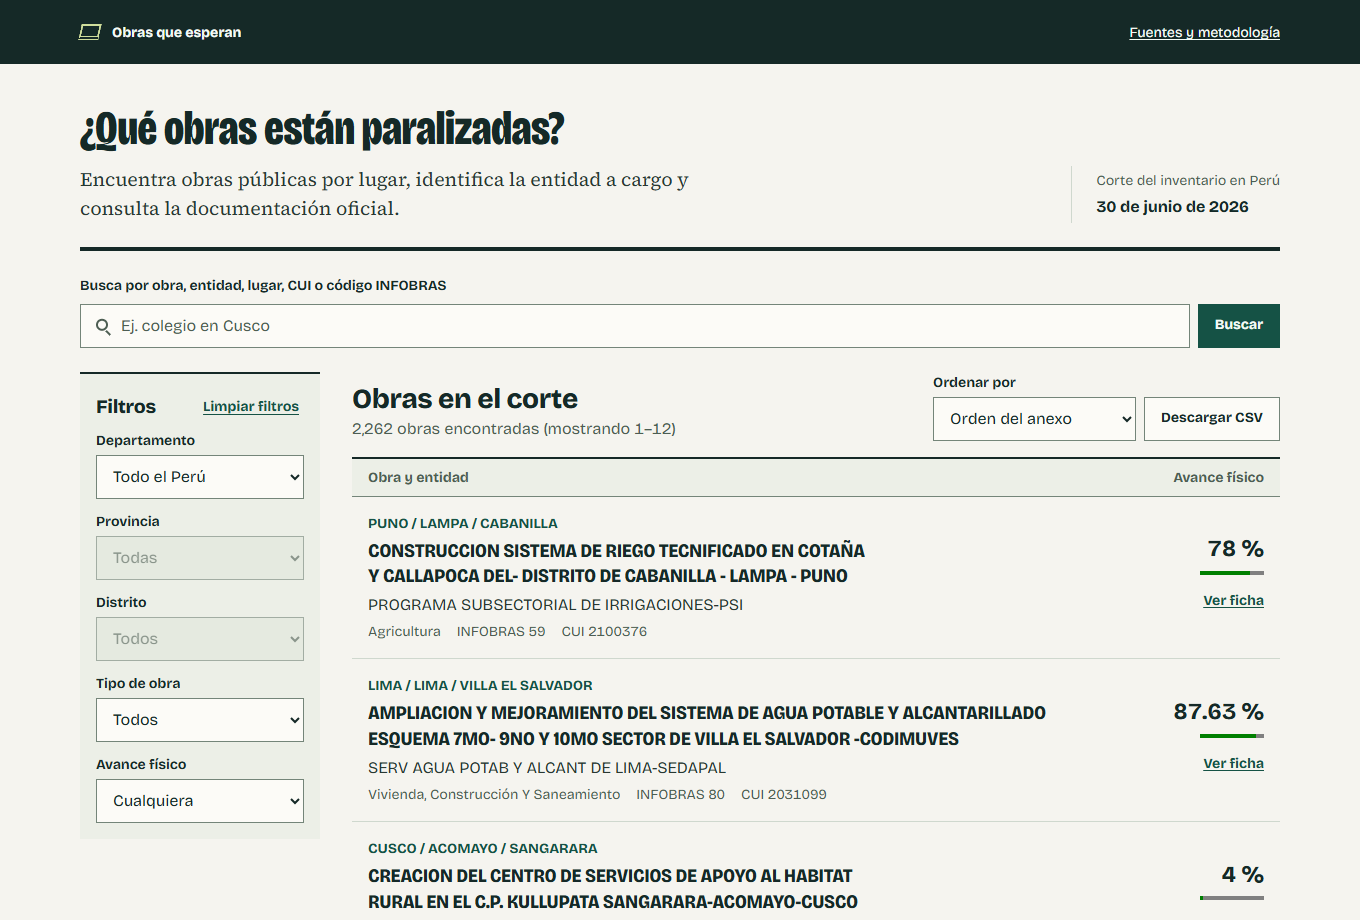
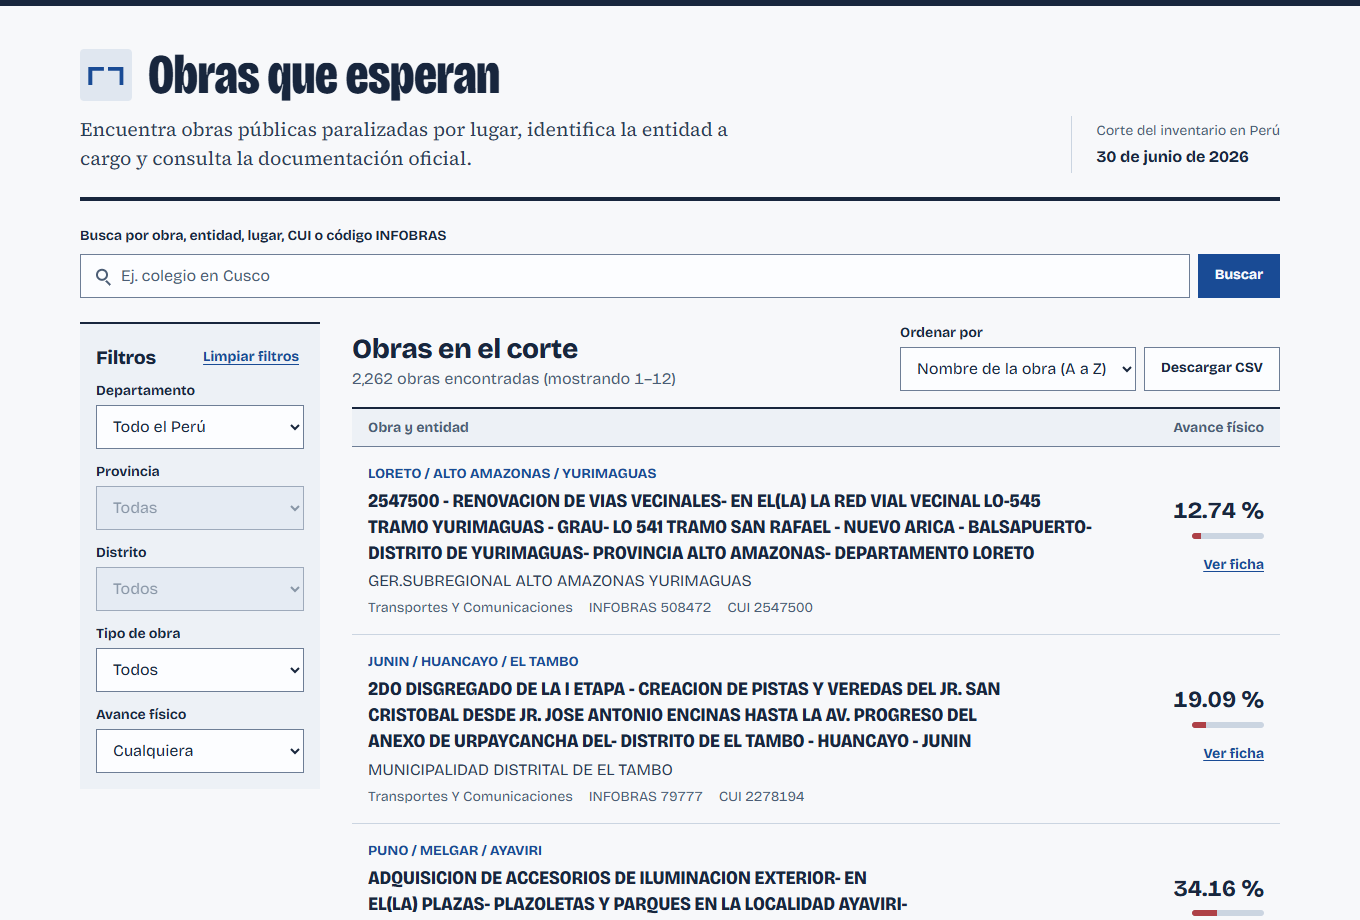
Refinar la portada y diferenciar el avance de obras

diff --git a/dist/buscador.js b/dist/buscador.js
@@ -7,17 +7,16 @@ const $ = id => document.getElementById(id);
 const cantidad = new Intl.NumberFormat("es-PE", { maximumFractionDigits: 2 });
 const moneda = new Intl.NumberFormat("es-PE", { style: "currency", currency: "PEN" });
 const ordenarTexto = new Intl.Collator("es", { sensitivity: "base" }).compare;
+const compararNombres = new Intl.Collator("es", { sensitivity: "base", ignorePunctuation: true }).compare;
+const obrasPorNombre = [...obras].sort((a, b) => compararNombres(a.obra, b.obra) || a.fila - b.fila);
+const ordenInicial = "nombre";
 const tamPagina = 12;
 const sinDato = "Sin dato en el anexo";
 const fechaOficial = new Intl.DateTimeFormat("es-PE", { dateStyle: "long", timeZone: "UTC" });
 const fechaCorte = corte ? fechaOficial.format(new Date(corte)) : "";
 const filtros = ["q", "dep", "prov", "dist", "tipo", "avance", "orden"];
 const comunes = new Set(["en", "de", "del", "la", "las", "el", "los", "y"]);
-const etiquetas = {
-  original: "Orden del anexo",
-  avance: "Mayor avance",
-  costo: "Mayor costo de obra",
-};
+const ordenes = new Set([ordenInicial, "original", "avance", "costo"]);
 const estados = { pagina: 1, resultados: [], cerrandoFicha: false, descargando: false, copia: 0 };
 const iaLocal = inventario && location.protocol === "http:" && location.hostname === "127.0.0.1"
   ? fetch("/api/ia", { signal: AbortSignal.timeout(3000) }).then(respuesta => respuesta.ok ? respuesta.json() : {}).then(datos => datos.disponible === true).catch(() => false)
@@ -132,7 +131,7 @@ function paramsBusqueda() {
   const params = new URLSearchParams();
   for (const id of filtros) {
     const valor = $(id).value.trim();
-    if (valor && !(id === "orden" && valor === "original")) params.set(id, valor);
+    if (valor && !(id === "orden" && valor === ordenInicial)) params.set(id, valor);
   }
   if (estados.pagina > 1) params.set("pagina", estados.pagina);
   return params;
@@ -171,7 +170,8 @@ function buscar({ reiniciar = true, sincronizar = true } = {}) {
   const prov = $("prov").value;
   const dist = $("dist").value;
   const tipo = $("tipo").value;
-  const seleccion = obras.filter(obra => {
+  const orden = $("orden").value;
+  const seleccion = (orden === ordenInicial ? obrasPorNombre : obras).filter(obra => {
     if (dep && obra.departamento !== dep) return false;
     if (prov && obra.provincia !== prov) return false;
     if (dist && obra.distrito !== dist) return false;
@@ -188,13 +188,18 @@ function buscar({ reiniciar = true, sincronizar = true } = {}) {
     return consulta.termino.every(palabra =>
       entrada.texto.includes(palabra) || obra.infobras === palabra || obra.cui === palabra);
   });
-  const orden = $("orden").value;
   if (orden === "avance" || orden === "costo") {
     seleccion.sort((a, b) => (b[orden] ?? -Infinity) - (a[orden] ?? -Infinity) || a.fila - b.fila);
   }
   estados.resultados = seleccion;
   renderizar();
   if (sincronizar) actualizarURL();
+}
+
+function claseAvance(avance) {
+  if (avance < 40) return "avance-bajo";
+  if (avance < 80) return "avance-medio";
+  return "avance-alto";
 }
 
 function renderizar() {
@@ -217,7 +222,7 @@ function renderizar() {
       <div class="dato">
         <span class="dato-etiqueta">Avance físico</span>
         <strong>${obra.avance == null ? "—" : porcentaje(obra.avance)}</strong>
-        ${Number.isFinite(obra.avance) ? `<progress aria-hidden="true" value="${obra.avance}" max="100"></progress>` : ""}
+        ${Number.isFinite(obra.avance) ? `<progress class="${claseAvance(obra.avance)}" aria-hidden="true" value="${obra.avance}" max="100"></progress>` : ""}
         <a data-obra="${obra.infobras}" href="${entidadHtml(enlaceFicha(obra.infobras))}" aria-label="Ver ficha INFOBRAS ${obra.infobras}">Ver ficha</a>
       </div>
     </li>`).join("") : '<li class="vacio">No hay coincidencias en este corte. Prueba con otro nombre o amplía la ubicación.</li>';
@@ -396,7 +401,7 @@ function leerURL() {
   const avance = params.get("avance");
   $("avance").value = ["90", "100", "sin"].includes(avance) ? avance : "";
   const orden = params.get("orden");
-  $("orden").value = Object.hasOwn(etiquetas, orden) ? orden : "original";
+  $("orden").value = ordenes.has(orden) ? orden : ordenInicial;
   estados.pagina = Number.parseInt(params.get("pagina"), 10) || 1;
   buscar({ reiniciar: false, sincronizar: false });
   const codigo = params.get("obra");
@@ -431,7 +436,7 @@ function iniciarBuscador() {
   $("limpiar").onclick = () => {
     form.reset();
     for (const id of ["dep", "tipo"]) $(id).value = "";
-    $("orden").value = "original";
+    $("orden").value = ordenInicial;
     actualizarUbicacion({ prov: "", dist: "" });
     aplicar();
     $("q").focus();

diff --git a/dist/estilos.css b/dist/estilos.css
@@ -1,7 +1,7 @@
-/* Hallmark · shape: app screen · genre: editorial · theme: Editorial (deal 1/3, seed peruvian-public-infrastructure-register-9815·14d6ae30·2026-11-11·r0) · redesign: full
- * nav: masthead de Obras que esperan · signature: registro de obras con avance y ficha · states: carga, vacío, error, resultados
- * axes: light/display-condensed/chromatic-green · posture: restrained · contrast: pass · v2.0.0 */
-/* Hallmark · pre-emit critique: P4 H5 E4 S4 R5 V4 · weakest: S, la evidencia manda; subí los resultados y separé lugar, entidad y avance */
+/* Hallmark · shape: app screen · genre: editorial · theme: custom · v2.0.0
+ * axes: light/display-condensed/slate-blue · posture: restrained
+ * signature: puente, registro territorial y avance físico · states: carga, vacío, error, resultados
+ * critique: un solo título, fuentes al pie y color de avance junto al porcentaje */
 @import url("./tokens.css");
 @import url("./base.css");
 
@@ -37,44 +37,45 @@ button, input, select, textarea {
   transform: none;
 }
 
-.masthead {
-  background: var(--color-ink);
-  color: var(--color-accent-ink);
+.top {
+  border-block-start: 6px solid var(--color-ink);
 }
 
-.topline {
-  min-height: 64px;
+.intro-titulo {
   display: flex;
   align-items: center;
-  justify-content: space-between;
   gap: var(--space-md);
 }
 
-.topline a {
-  color: var(--color-accent-ink);
-  font-size: var(--text-sm);
-  white-space: nowrap;
-}
-
-.topline a:focus-visible {
-  outline-color: var(--color-mark);
-}
-
-.marca {
-  display: inline-flex;
-  align-items: center;
-  gap: var(--space-sm);
-  font-weight: 700;
-  text-decoration: none;
-}
-
-.marca-icono {
-  width: 20px;
-  height: 16px;
+.puente {
+  position: relative;
   flex: none;
-  border: 2px solid var(--color-mark);
-  border-bottom: 4px double var(--color-mark);
-  transform: skewX(-12deg);
+  width: 3.25rem;
+  aspect-ratio: 1;
+  border-radius: var(--space-2xs);
+  background: var(--color-paper-3);
+  color: var(--color-accent);
+}
+
+.puente::before,
+.puente::after {
+  position: absolute;
+  top: 35%;
+  width: 30%;
+  height: 36%;
+  background: currentColor;
+  content: "";
+}
+
+.puente::before {
+  left: 16%;
+  clip-path: polygon(0 0, 100% 0, 100% 4px, 4px 4px, 4px 100%, 0 100%);
+}
+
+.puente::after {
+  right: 16%;
+  transform: scaleX(-1);
+  clip-path: polygon(0 0, 100% 0, 100% 4px, 4px 4px, 4px 100%, 0 100%);
 }
 
 .intro {
@@ -88,7 +89,7 @@ button, input, select, textarea {
 
 .intro h1 {
   max-width: none;
-  font-size: 3rem;
+  font-size: 3.5rem;
   font-variation-settings: "wdth" 75, "opsz" 72;
   line-height: 1.02;
 }
@@ -404,12 +405,52 @@ button:disabled, input:disabled, select:disabled, textarea:disabled {
 }
 
 .dato progress {
-  width: 4rem;
-  height: 4px;
+  appearance: none;
+  display: block;
+  width: 4.5rem;
+  height: 6px;
   margin-block: var(--space-2xs);
+  overflow: hidden;
   border: 0;
+  border-radius: var(--space-2xs);
   background: var(--color-rule);
-  accent-color: var(--color-accent);
+  color: var(--color-avance);
+  accent-color: var(--color-avance);
+}
+
+.avance-bajo {
+  --color-avance: var(--color-avance-bajo);
+}
+
+.avance-medio {
+  --color-avance: var(--color-avance-medio);
+}
+
+.avance-alto {
+  --color-avance: var(--color-avance-alto);
+}
+
+.dato progress[value="0"] {
+  outline: 1px solid var(--color-avance);
+  outline-offset: -1px;
+}
+
+.dato progress::-webkit-progress-bar {
+  background: var(--color-rule);
+}
+
+.dato progress::-webkit-progress-value {
+  background: var(--color-avance);
+}
+
+.dato progress::-moz-progress-bar {
+  background: var(--color-avance);
+}
+
+@media (forced-colors: active) {
+  .dato progress {
+    appearance: auto;
+  }
 }
 
 .dato a {
@@ -646,13 +687,12 @@ textarea {
 }
 
 @media (max-width: 40rem) {
-  .topline {
-    min-height: 56px;
-    gap: var(--space-xs);
+  .intro-titulo {
+    gap: var(--space-sm);
   }
 
-  .marca {
-    gap: var(--space-xs);
+  .puente {
+    width: 2.375rem;
   }
 
   .intro {
@@ -690,13 +730,13 @@ textarea {
     padding-inline: var(--space-xs);
   }
 
-  .lista-cabecera span:last-child, .dato progress {
+  .lista-cabecera span:last-child {
     display: none;
   }
 
   .dato {
-    display: flex;
-    flex-direction: row;
+    display: grid;
+    grid-template-columns: auto auto minmax(1rem, 1fr) auto;
     align-items: center;
     gap: var(--space-xs);
     border-top: var(--rule-hair) solid var(--color-rule);
@@ -716,8 +756,13 @@ textarea {
     font-size: var(--text-lg);
   }
 
+  .dato progress {
+    width: 100%;
+    max-width: 4.5rem;
+  }
+
   .dato a {
-    margin-inline-start: auto;
+    grid-column: 4;
   }
 
   #detalle, .ficha-top {

diff --git a/dist/index.html b/dist/index.html
@@ -4,7 +4,7 @@
   <meta charset="utf-8">
   <meta name="viewport" content="width=device-width,initial-scale=1">
   <meta name="description" content="Busca obras públicas paralizadas en el Perú y consulta su entidad, avance y documentos oficiales.">
-  <meta name="theme-color" content="#152927">
+  <meta name="theme-color" content="#18263d">
   <title>Obras que esperan · Buscador de obras paralizadas</title>
   <link rel="icon" href="favicon.ico">
   <link rel="stylesheet" href="estilos.css?v=editorial">
@@ -28,16 +28,13 @@
 <body>
   <a class="skip" href="#busqueda">Ir al buscador</a>
   <header class="top">
-    <div class="masthead">
-      <div class="wrap topline">
-        <a class="marca" href="index.html" aria-label="Obras que esperan, inicio"><span class="marca-icono" aria-hidden="true"></span>Obras que esperan</a>
-        <nav aria-label="Principal"><a href="#fuentes">Fuentes y metodología</a></nav>
-      </div>
-    </div>
     <div class="wrap intro">
       <div class="intro-texto">
-        <h1>¿Qué obras están paralizadas?</h1>
-        <p>Encuentra obras públicas por lugar, identifica la entidad a cargo y consulta la documentación oficial.</p>
+        <div class="intro-titulo">
+          <span class="puente" aria-hidden="true"></span>
+          <h1>Obras que esperan</h1>
+        </div>
+        <p>Encuentra obras públicas paralizadas por lugar, identifica la entidad a cargo y consulta la documentación oficial.</p>
       </div>
       <dl class="corte">
         <dt>Corte del inventario en Perú</dt>
@@ -82,7 +79,7 @@
               <div><h2 id="titulo-resultados">Obras en el corte</h2><p id="conteo" role="status">Cargando el inventario…</p></div>
               <div class="resultados-herramientas">
                 <div class="sort-row">
-                  <label>Ordenar por <select id="orden" disabled><option value="original">Orden del anexo</option><option value="avance">Mayor avance</option><option value="costo">Mayor costo de obra</option></select></label>
+                  <label>Ordenar por <select id="orden" disabled><option value="nombre">Nombre de la obra (A a Z)</option><option value="original">Orden de la fuente</option><option value="avance">Mayor avance</option><option value="costo">Mayor costo de obra</option></select></label>
                 </div>
                 <button id="descargar" type="button" class="button secondary" disabled>Descargar CSV</button>
               </div>

diff --git a/dist/tokens.css b/dist/tokens.css
@@ -25,13 +25,13 @@
   --color-error: oklch(52% 0.19 27); --color-success: oklch(50% 0.12 150);
   --container: 1200px; --gutter: 48px; --gap-columns: 32px; --section-gap-s: 120px; --section-gap: 144px; --section-gap-l: 176px;
   --z-base: 1; --z-raised: 10; --z-dropdown: 100; --z-sticky: 200; --z-sticky-nav: 300; --z-modal: 400; --z-toast: 500; --z-tooltip: 600;
-  --color-paper: #f5f4ef; --color-paper-2: #ecefe7; --color-paper-3: #e0e6db;
-  --color-campo: #fcfbf7;
-  --color-ink: #152927; --color-ink-2: #283832; --color-muted: #4d5e53;
-  --color-rule: #cfd8ce; --color-rule-2: #748579;
-  --color-accent: #155245; --color-accent-ink: #f4fbf6; --color-focus: #1b7258;
-  --color-mark: #cfdd9b;
-  --color-fondo-dialogo: rgb(16 34 30 / 70%);
+  --color-paper: #f7f8fa; --color-paper-2: #edf1f6; --color-paper-3: #e0e7f0;
+  --color-campo: #fcfdff;
+  --color-ink: #18263d; --color-ink-2: #2d3d55; --color-muted: #4b5d75;
+  --color-rule: #cbd5e1; --color-rule-2: #6e7e96;
+  --color-accent: #194b95; --color-accent-ink: #f8faff; --color-focus: #195ab6;
+  --color-avance-bajo: #ae4147; --color-avance-medio: #996013; --color-avance-alto: #267450;
+  --color-fondo-dialogo: rgb(18 29 48 / 70%);
   --color-transparente: transparent;
   --font-display: "Bricolage Grotesque", ui-sans-serif, sans-serif; --font-body: "Source Serif 4", ui-serif, Georgia, serif;
   --radius-card: 0; --radius-pill: 0; --rule-hair: 1px; --rule-heavy: 4px; --shadow-card: none;
